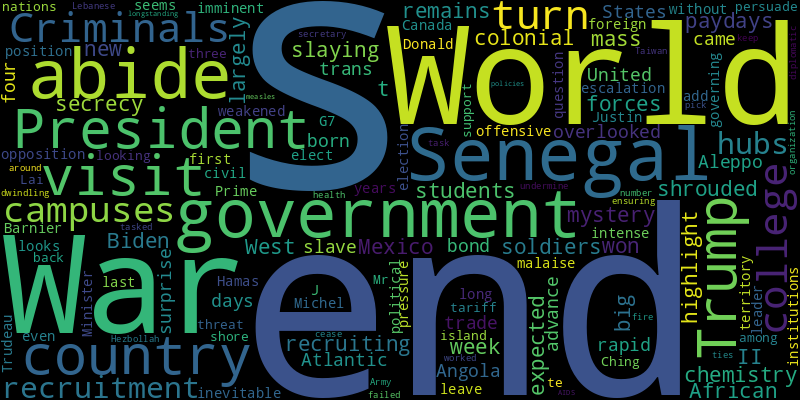
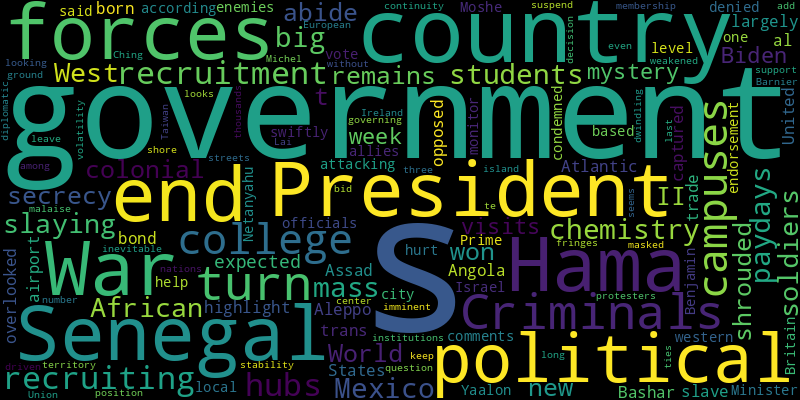
chore(bot): 💩 auto commit

diff --git a/README.md b/README.md
@@ -5,29 +5,32 @@ Auto RSS New York Times and Generate Word Cloud
 * Criminals turn college campuses into recruitment hubs, recruiting chemistry students in Mexico with big paydays.
 * The mass slaying of West African soldiers by colonial forces at the end of World War II in Senegal remains shrouded in secrecy. But Senegal’s new government won’t abide the mystery.
 * When President Biden visits the country this week, he is expected to highlight a largely overlooked bond between Angola and the United States that was born out of the trans-Atlantic slave trade.
-* The rapid advance on Aleppo came just four days into a surprise opposition offensive that is the most intense escalation in years in the civil war.
+* Forces opposed to President Bashar al-Assad have captured the Aleppo airport and are attacking the western city of Hama, according to local officials and a Britain-based war monitor.
+* The comments by Moshe Yaalon were swiftly denied and condemned by allies of Prime Minister Benjamin Netanyahu of Israel, who said that they would hurt the country and help its enemies.
+* At one level, the vote was an endorsement of continuity, but the stability in Ireland’s political center ground masked volatility on the fringes.
+* The government’s decision to suspend its bid for European Union membership has driven thousands of protesters into the streets.
 * Hamas’s weakened position could leave the territory without any governing institutions.
-* The end of Michel Barnier’s government looks inevitable, even imminent, and would add to the country’s political malaise. The only question seems to be: How long he can last?
-* Prime Minister Justin Trudeau of Canada is the first foreign G7 leader to visit President-elect Donald J. Trump since the election. He is under pressure to persuade Mr. Trump to back down from his tariff threat.
+* The end of Michel Barnier’s government looks inevitable, even imminent, and would add to the country’s political malaise. The only question seems to be: How long can he last?
 * Lai Ching-te is looking to shore up support from three island nations that are among a dwindling number to keep diplomatic ties with Taiwan.
-* The Lebanese Army is tasked with ensuring that Hezbollah abides by the cease-fire. It has failed at that task before.
-* The health secretary pick and his organization have worked around the world to undermine longstanding policies on measles, AIDS and more.
 
 ![Global](./global.png)
 ## New York Times United States News
-* The lake-effect storm disrupted holiday travel across the region, trapping dozens of vehicles on highways. Some areas could get up to six feet of snow by Tuesday.
-* As the country’s liberal bubbles mourn the election’s outcome, Laurene Powell Jobs highlighted entrepreneurs’ good work with one rule: “Cheer loudly!”
 * The San Jose State women’s team, which has a transgender player, lost to the tournament favorite Colorado State, concluding a season that transcended sports.
-* Many of the victims were the West Virginia pastor’s relatives, the police said, including five nieces who filed a complaint against him in 2004.
-* Ben Wikler, who has led the Wisconsin Democratic Party since 2019, announced a bid to be national party chair with a platform to “unite, fight, win.”
-* President-elect Donald J. Trump is threatening to challenge the institution’s historic role, and the Constitution, with his prospective nominees and threats to push the boundaries of executive authority.
 * The mayor and labor unions say the $1.3 billion basketball arena would be an economic boost. But the city acknowledges that Chinatown could be at risk.
-* Mr. Musk’s rockets and presence have helped shape, and reshape, the culture and politics of Cameron County in South Texas.
-* President-elect Donald J. Trump has long seen his bombastic national security operative as a political “enforcer.” But former colleagues question his fitness for the job.
-* The announcement of Sheriff Chad Chronister came after President-elect Donald J. Trump said that he would impose tariffs that would stay in place until Canada, Mexico and China halted the flow of drugs and migrants.
+* The storm dumped several feet of snow and disrupted post-Thanksgiving travel in the Great Lakes states and New York. More snow is expected in the coming days.
+* The state is one of at least a dozen states to set restrictions on bathrooms for transgender students at public schools.
+* On Thanksgiving eve, U.S. diplomats reunited family members who had not seen each other in years because of China’s harsh policies on the ethnic group.
+* In a letter, the Democratic leader said members of his party would work with Republicans to consider the president-elect’s nominees — but asserted they should undergo traditional Senate vetting.
+* President-elect Donald J. Trump’s decision to install Kash Patel as F.B.I. director indicates that he remains undaunted by Washington resistance as he appoints ideological warriors, conspiracy theorists and even relatives.
+* Some voters galvanized by Robert F. Kennedy Jr.’s pledge to “Make America Healthy Again” said they believed the health establishment was dismissive and even corrupt.
+* Virginia and New Jersey feature contests for governor. Elections in Wisconsin and Pennsylvania could tip the power balance on the Supreme Court in those battleground states.
+* Lt. Shane Lamond, charged with obstruction and lying to agents, is expected to call Enrique Tarrio, the former Proud Boys leader who was convicted of sedition over the Jan. 6 riot, as a defense witness.
 
 ![US](./usnews.png)
 ## New York Times Asia News
+* On Thanksgiving eve, U.S. diplomats reunited family members who had not seen each other in years because of China’s harsh policies on the ethnic group.
+* Kim Seongmin, who fled to South Korea in the 1990s, broadcasts to his homeland twice a day, delivering the kind of information Pyongyang is trying hard to suppress.
+* Plus, the vast network of undersea internet cables.
 * The sentencing of Dong Yuyu, a former Harvard Nieman fellow, signals that officials consider some exchanges between Chinese citizens and foreigners to be espionage.
 * Lai Ching-te is looking to shore up support from three island nations that are among a dwindling number to keep diplomatic ties with Taiwan.
 * We tracked $86 million in U.S. money that was supposed to go toward panda conservation in China.
@@ -35,8 +38,5 @@ Auto RSS New York Times and Generate Word Cloud
 * Dong Yuyu, who has written articles critical of the Communist Party, was arrested in 2022 while having lunch with a Japanese diplomat.
 * Plus, the gangs stealing hiring exams in India.
 * India and Bangladesh have traded angry accusations about Bangladesh’s Hindu minority.
-* The law sets a minimum age for users of platforms like TikTok, Instagram and X. How the restriction will be enforced online remains an open question.
-* An online campaign has prompted major pad manufacturers to apologize. Regulators said they would consider women’s criticisms when writing new standards.
-* The case of Adm. Miao Hua suggests the persistence of graft at high levels of the military, despite the efforts by Xi Jinping to stamp out corruption.
 
 ![Asian](./asian.png)

diff --git a/archive/2024-12-01.md b/archive/2024-12-01.md
@@ -1,0 +1,42 @@
+# NewsArchive
+Auto RSS New York Times and Generate Word Cloud
+
+## New York Times Global News
+* Criminals turn college campuses into recruitment hubs, recruiting chemistry students in Mexico with big paydays.
+* The mass slaying of West African soldiers by colonial forces at the end of World War II in Senegal remains shrouded in secrecy. But Senegal’s new government won’t abide the mystery.
+* When President Biden visits the country this week, he is expected to highlight a largely overlooked bond between Angola and the United States that was born out of the trans-Atlantic slave trade.
+* The rapid advance on Aleppo came just four days into a surprise opposition offensive that is the most intense escalation in years in the civil war.
+* Hamas’s weakened position could leave the territory without any governing institutions.
+* The end of Michel Barnier’s government looks inevitable, even imminent, and would add to the country’s political malaise. The only question seems to be: How long he can last?
+* Prime Minister Justin Trudeau of Canada is the first foreign G7 leader to visit President-elect Donald J. Trump since the election. He is under pressure to persuade Mr. Trump to back down from his tariff threat.
+* Lai Ching-te is looking to shore up support from three island nations that are among a dwindling number to keep diplomatic ties with Taiwan.
+* The Lebanese Army is tasked with ensuring that Hezbollah abides by the cease-fire. It has failed at that task before.
+* The health secretary pick and his organization have worked around the world to undermine longstanding policies on measles, AIDS and more.
+
+![Global](./global.png)
+## New York Times United States News
+* The lake-effect storm disrupted holiday travel across the region, trapping dozens of vehicles on highways. Some areas could get up to six feet of snow by Tuesday.
+* As the country’s liberal bubbles mourn the election’s outcome, Laurene Powell Jobs highlighted entrepreneurs’ good work with one rule: “Cheer loudly!”
+* The San Jose State women’s team, which has a transgender player, lost to the tournament favorite Colorado State, concluding a season that transcended sports.
+* Many of the victims were the West Virginia pastor’s relatives, the police said, including five nieces who filed a complaint against him in 2004.
+* Ben Wikler, who has led the Wisconsin Democratic Party since 2019, announced a bid to be national party chair with a platform to “unite, fight, win.”
+* President-elect Donald J. Trump is threatening to challenge the institution’s historic role, and the Constitution, with his prospective nominees and threats to push the boundaries of executive authority.
+* The mayor and labor unions say the $1.3 billion basketball arena would be an economic boost. But the city acknowledges that Chinatown could be at risk.
+* Mr. Musk’s rockets and presence have helped shape, and reshape, the culture and politics of Cameron County in South Texas.
+* President-elect Donald J. Trump has long seen his bombastic national security operative as a political “enforcer.” But former colleagues question his fitness for the job.
+* The announcement of Sheriff Chad Chronister came after President-elect Donald J. Trump said that he would impose tariffs that would stay in place until Canada, Mexico and China halted the flow of drugs and migrants.
+
+![US](./usnews.png)
+## New York Times Asia News
+* The sentencing of Dong Yuyu, a former Harvard Nieman fellow, signals that officials consider some exchanges between Chinese citizens and foreigners to be espionage.
+* Lai Ching-te is looking to shore up support from three island nations that are among a dwindling number to keep diplomatic ties with Taiwan.
+* We tracked $86 million in U.S. money that was supposed to go toward panda conservation in China.
+* A Times investigation found that zoos knew conservation money went toward apartment buildings and roads. But they wanted to keep displaying pandas, so nobody looked too closely.
+* Dong Yuyu, who has written articles critical of the Communist Party, was arrested in 2022 while having lunch with a Japanese diplomat.
+* Plus, the gangs stealing hiring exams in India.
+* India and Bangladesh have traded angry accusations about Bangladesh’s Hindu minority.
+* The law sets a minimum age for users of platforms like TikTok, Instagram and X. How the restriction will be enforced online remains an open question.
+* An online campaign has prompted major pad manufacturers to apologize. Regulators said they would consider women’s criticisms when writing new standards.
+* The case of Adm. Miao Hua suggests the persistence of graft at high levels of the military, despite the efforts by Xi Jinping to stamp out corruption.
+
+![Asian](./asian.png)
